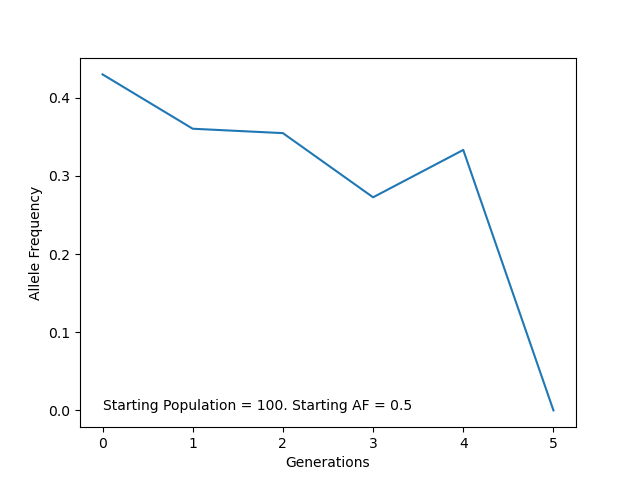
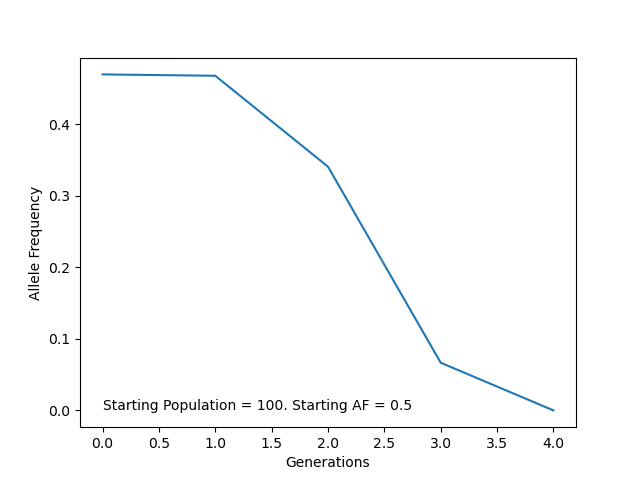
complete assignment

diff --git a/week12-homework/wrightfisher.py b/week12-homework/wrightfisher.py
@@ -1,10 +1,12 @@
 #usr/bin/env python
 
-#use: Allele Count, probability of selecting that Allele (allele count/population)
+#use: Population, allele frequency
 
 import numpy as np
 import sys
 import matplotlib.pyplot as plt
+import statistics
+import seaborn as sns
 
 
 population = int(sys.argv[1])
@@ -12,20 +14,19 @@ allele_count = population*2
 allele_frequency = float(sys.argv[2])
 probability = allele_frequency
 
-freqlist = []
-lastac = allele_count
-
-def simulation(allele_count, probability):
-    while probability != 1 and probability != 0:
-        ac = np.random.binomial(n = allele_count, p = probability)
-        freq = ac/allele_count
+def simulation(allele_c, probab):
+    freqlist = []
+    while probab != 1 and probab != 0:
+        ac = np.random.binomial(n = allele_c, p = probab)
+        freq = ac/allele_c
         freqlist.append(freq)
-        allele_count = ac
-        probability = float(freq)
+        allele_c = ac
+        probab = float(freq)
+    return(freqlist)
 
-simulation(allele_count, probability)
+first_sim = simulation(allele_count, probability)
 
-def freqplot(pltsave = False, name = 'plt.png'):
+def freqplot(freqlist, pltsave = False, name = 'plt.png'):
     fig, ax = plt.subplots()
     ax.plot(range(0,len(freqlist)),freqlist)
     plt.xlabel('Generations')
@@ -33,20 +34,88 @@ def freqplot(pltsave = False, name = 'plt.png'):
     plt.text(0, 0, s = ('Starting Population = ' + str(population) + '. Starting AF = ' + str(probability)), fontsize = 10)
     if pltsave == True:
         plt.savefig(name)
+    plt.show()
     plt.close()
 
-# freqplot(True, 'allelefreq.png')
+freqplot(first_sim, True, 'allelefreq.png')
 
-# ttg = []
-# for each in range(0,1000):
-#     simulation(allele_count, probability)
-#     ttg.append(len(freqlist))
-# fig, ax = plt.subplots()
-# ax.hist(ttg, bins = 50)
-# plt.title('Generations Until Fixation')
-# plt.xlabel('Number of Generations')
-# plt.ylabel('Count')
-# plt.savefig('GentilFixation.png')
-# plt.close()
+ttg = []
+for each in range(0,1000):
+    simulation(allele_count, probability)
+    ttg.append(len(freqlist))
+fig, ax = plt.subplots()
+ax.hist(ttg, bins = 50)
+plt.title('Generations Until Fixation')
+plt.xlabel('Number of Generations')
+plt.ylabel('Count')
+plt.savefig('GentilFixation.png')
+plt.close()
+
+ttgavgs = []
+
+ttg100 = []
+for each in range(0,100):
+    pop100 = simulation(100*2, probability)
+    ttg100.append(len(pop100))
+
+ttg500 = []
+for each in range(0,500):
+    pop500 = simulation(500*2, probability)
+    ttg500.append(len(pop500))
+
+ttg1000 = []
+for each in range(0,1000):
+    pop1000 = simulation(1000*2, probability)
+    ttg1000.append(len(pop1000))
+
+ttg5000 = []
+for each in range(0,5000):
+    pop5000 = simulation(5000*2, probability)
+    ttg5000.append(len(pop5000))
+
+ttg10000 = []
+for each in range(0,10000):
+    pop10000 = simulation(10000*2, probability)
+    ttg10000.append(len(pop10000))
+
+ttg50000 = []
+for each in range(0,50000):
+    pop50000 = simulation(50000*2, probability)
+    ttg50000.append(len(pop50000))
+
+ttgavgs.extend([statistics.fmean(ttg100), statistics.fmean(ttg500), statistics.fmean(ttg1000), statistics.fmean(ttg5000), statistics.fmean(ttg10000), statistics.fmean(ttg50000)])
+
+sizes = [100, 500, 1000, 5000, 10000, 50000]
+sizes = np.log10(sizes)
+
+fig, ax = plt.subplots()
+ax.plot(sizes, ttgavgs)
+plt.title('Generations until Fixation for Differing N Simulations')
+plt.xlabel('log10(Number of Simulations)')
+plt.ylabel('Average Generations until Fixation')
+plt.savefig('NFixation.png')
+plt.show()
+plt.close()
 
 
+ttg2alleles = [0.25, 0.3, 0.35, 0.4, 0.45, 0.5, 0.55, 0.6, 0.65, 0.7, 0.75]
+
+listoflists = []
+for thing in ttg2alleles:
+    thinglist = []
+    for each in range(0,100):
+        sim = simulation(100*2, thing)
+        thinglist.append(len(sim))
+    listoflists.append(thinglist)
+
+fig, ax = plt.subplots()
+g = sns.stripplot(data = listoflists)
+g.set_xticks(range(len(listoflists)))
+g.set_xticklabels(['0.25', '0.3', '0.35', '0.4', '0.45', '0.5', '0.55', '0.6', '0.65', '0.7', '0.75'])
+plt.xlabel('Allele Frequency')
+plt.ylabel('Generations Until Fixation')
+plt.text(0, 25, s = ('Starting Population = 100'))
+plt.title('Generations until Fixation for Different Starting Allele Frequencies')
+plt.savefig('allelefixation.png')
+plt.show()
+plt.close()
